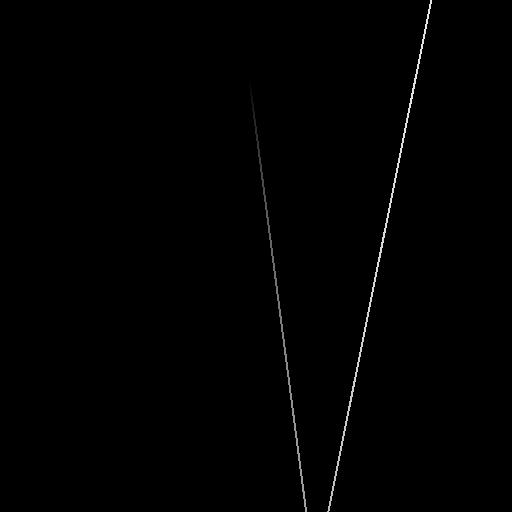
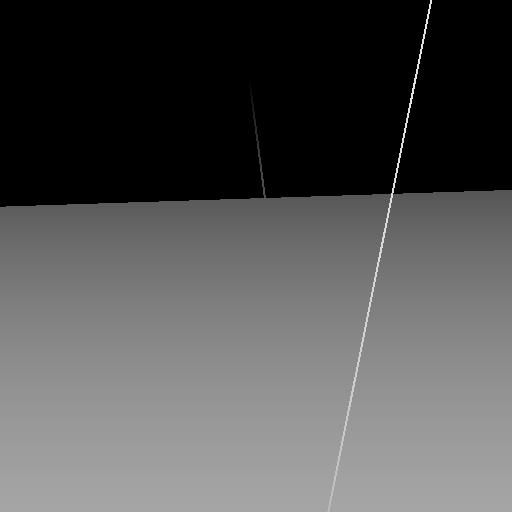
start real2sim

diff --git a/python/examples/real2sim.py b/python/examples/real2sim.py
@@ -1,0 +1,252 @@
+"""
+Copyright (c) 2020, NVIDIA CORPORATION. All rights reserved.
+
+NVIDIA CORPORATION and its licensors retain all intellectual property
+and proprietary rights in and to this software, related documentation
+and any modifications thereto. Any use, reproduction, disclosure or
+distribution of this software and related documentation without an express
+license agreement from NVIDIA CORPORATION is strictly prohibited.
+
+Franka Cube Pick
+----------------
+Use Jacobian matrix and inverse kinematics control of Franka robot to pick up a box.
+Damped Least Squares method from: https://www.math.ucsd.edu/~sbuss/ResearchWeb/ikmethods/iksurvey.pdf
+"""
+
+from isaacgym import gymapi
+from isaacgym import gymutil
+from isaacgym import gymtorch
+from isaacgym.torch_utils import *
+
+import math
+import numpy as np
+import torch
+import random
+import time
+
+
+def quat_axis(q, axis=0):
+    basis_vec = torch.zeros(q.shape[0], 3, device=q.device)
+    basis_vec[:, axis] = 1
+    return quat_rotate(q, basis_vec)
+
+
+def orientation_error(desired, current):
+    cc = quat_conjugate(current)
+    q_r = quat_mul(desired, cc)
+    return q_r[:, 0:3] * torch.sign(q_r[:, 3]).unsqueeze(-1)
+
+
+def cube_grasping_yaw(q, corners):
+    """ returns horizontal rotation required to grasp cube """
+    rc = quat_rotate(q, corners)
+    yaw = (torch.atan2(rc[:, 1], rc[:, 0]) - 0.25 * math.pi) % (0.5 * math.pi)
+    theta = 0.5 * yaw
+    w = theta.cos()
+    x = torch.zeros_like(w)
+    y = torch.zeros_like(w)
+    z = theta.sin()
+    yaw_quats = torch.stack([x, y, z, w], dim=-1)
+    return yaw_quats
+
+
+def control_ik(dpose):
+    global damping, j_eef, num_envs
+    # solve damped least squares
+    j_eef_T = torch.transpose(j_eef, 1, 2)
+    lmbda = torch.eye(6, device=device) * (damping ** 2)
+    u = (j_eef_T @ torch.inverse(j_eef @ j_eef_T + lmbda) @ dpose).view(num_envs, 7)
+    return u
+
+
+def control_osc(dpose):
+    global kp, kd, kp_null, kd_null, default_dof_pos_tensor, mm, j_eef, num_envs, dof_pos, dof_vel, hand_vel
+    mm_inv = torch.inverse(mm)
+    m_eef_inv = j_eef @ mm_inv @ torch.transpose(j_eef, 1, 2)
+    m_eef = torch.inverse(m_eef_inv)
+    u = torch.transpose(j_eef, 1, 2) @ m_eef @ (
+        kp * dpose - kd * hand_vel.unsqueeze(-1))
+
+    # Nullspace control torques `u_null` prevents large changes in joint configuration
+    # They are added into the nullspace of OSC so that the end effector orientation remains constant
+    # roboticsproceedings.org/rss07/p31.pdf
+    j_eef_inv = m_eef @ j_eef @ mm_inv
+    u_null = kd_null * -dof_vel + kp_null * (
+        (default_dof_pos_tensor.view(1, -1, 1) - dof_pos + np.pi) % (2 * np.pi) - np.pi)
+    u_null = u_null[:, :7]
+    u_null = mm @ u_null
+    u += (torch.eye(7, device=device).unsqueeze(0) - torch.transpose(j_eef, 1, 2) @ j_eef_inv) @ u_null
+    return u.squeeze(-1)
+
+
+# set random seed
+np.random.seed(42)
+
+torch.set_printoptions(precision=4, sci_mode=False)
+
+# acquire gym interface
+gym = gymapi.acquire_gym()
+
+# parse arguments
+
+# Add custom arguments
+custom_parameters = [
+    {"name": "--controller", "type": str, "default": "ik",
+     "help": "Controller to use for Franka. Options are {ik, osc}"},
+    {"name": "--num_envs", "type": int, "default": 256, "help": "Number of environments to create"},
+]
+args = gymutil.parse_arguments(
+    description="Franka Jacobian Inverse Kinematics (IK) + Operational Space Control (OSC) Example",
+    custom_parameters=custom_parameters,
+)
+
+# Grab controller
+controller = args.controller
+assert controller in {"ik", "osc"}, f"Invalid controller specified -- options are (ik, osc). Got: {controller}"
+
+# set torch device
+device = args.sim_device if args.use_gpu_pipeline else 'cpu'
+
+# configure sim
+sim_params = gymapi.SimParams()
+sim_params.up_axis = gymapi.UP_AXIS_Z
+sim_params.gravity = gymapi.Vec3(0.0, 0.0, -9.8)
+sim_params.dt = 1.0 / 60.0
+sim_params.substeps = 2
+sim_params.use_gpu_pipeline = args.use_gpu_pipeline
+if args.physics_engine == gymapi.SIM_PHYSX:
+    sim_params.physx.solver_type = 1
+    sim_params.physx.num_position_iterations = 8
+    sim_params.physx.num_velocity_iterations = 1
+    sim_params.physx.rest_offset = 0.0
+    sim_params.physx.contact_offset = 0.001
+    sim_params.physx.friction_offset_threshold = 0.001
+    sim_params.physx.friction_correlation_distance = 0.0005
+    sim_params.physx.num_threads = args.num_threads
+    sim_params.physx.use_gpu = args.use_gpu
+else:
+    raise Exception("This example can only be used with PhysX")
+
+# Set controller parameters
+# IK params
+damping = 0.05
+
+# OSC params
+kp = 150.
+kd = 2.0 * np.sqrt(kp)
+kp_null = 10.
+kd_null = 2.0 * np.sqrt(kp_null)
+
+# create sim
+sim = gym.create_sim(args.compute_device_id, args.graphics_device_id, args.physics_engine, sim_params)
+if sim is None:
+    raise Exception("Failed to create sim")
+
+# create viewer
+viewer = gym.create_viewer(sim, gymapi.CameraProperties())
+if viewer is None:
+    raise Exception("Failed to create viewer")
+
+asset_root = "../../assets"
+
+# create table asset
+table_dims = gymapi.Vec3(1.0, 1.0, 0.04)
+asset_options = gymapi.AssetOptions()
+asset_options.fix_base_link = True
+table_asset = gym.create_box(sim, table_dims.x, table_dims.y, table_dims.z, asset_options)
+
+# create box asset
+box_size = 0.045
+asset_options = gymapi.AssetOptions()
+box_asset = gym.create_box(sim, box_size, box_size, box_size, asset_options)
+
+asset_root = "../../assets"
+asset_file_object = "urdf/ycb/red_cube/red_cube.urdf"
+# asset_file_object = "urdf/ycb/010_potted_meat_can/010_potted_meat_can.urdf"
+object_asset = gym.load_asset(sim, asset_root, asset_file_object, gymapi.AssetOptions())
+
+
+# configure env grid
+num_envs = 1
+num_per_row = int(math.sqrt(num_envs))
+spacing = 1.0
+env_lower = gymapi.Vec3(-spacing, -spacing, 0.0)
+env_upper = gymapi.Vec3(spacing, spacing, spacing)
+print("Creating %d environments" % num_envs)
+
+franka_pose = gymapi.Transform()
+franka_pose.p = gymapi.Vec3(0, 0, 0)
+
+table_pose = gymapi.Transform()
+table_pose.p = gymapi.Vec3(0., 0.0, 0.5 * table_dims.z)
+
+box_pose = gymapi.Transform()
+
+envs = []
+box_idxs = []
+hand_idxs = []
+init_pos_list = []
+init_rot_list = []
+
+# add ground plane
+plane_params = gymapi.PlaneParams()
+plane_params.normal = gymapi.Vec3(0, 0, 1)
+gym.add_ground(sim, plane_params)
+
+object_scale = 1.0
+# object_scale = 1. / 161.03548483729227
+for i in range(num_envs):
+    # create env
+    env = gym.create_env(sim, env_lower, env_upper, num_per_row)
+    envs.append(env)
+
+    # add table
+    table_handle = gym.create_actor(env, table_asset, table_pose, "table", i, 0)
+
+    # add box
+    box_pose.p.x = table_pose.p.x + np.random.uniform(-0.2, 0.1)
+    box_pose.p.y = table_pose.p.y + np.random.uniform(-0.3, 0.3)
+    box_pose.p.z = 0.08
+    box_pose.r = gymapi.Quat.from_axis_angle(gymapi.Vec3(0, 0, 1), np.random.uniform(-math.pi, math.pi))
+    # box_handle = gym.create_actor(env, box_asset, box_pose, "box", i, 0)
+    box_handle = gym.create_actor(env, object_asset, box_pose, "box", i, 0)
+    gym.set_actor_scale(env, box_handle, object_scale)
+
+    color = gymapi.Vec3(np.random.uniform(0, 1), np.random.uniform(0, 1), np.random.uniform(0, 1))
+    gym.set_rigid_body_color(env, box_handle, 0, gymapi.MESH_VISUAL_AND_COLLISION, color)
+
+    # get global index of box in rigid body state tensor
+    box_idx = gym.get_actor_rigid_body_index(env, box_handle, 0, gymapi.DOMAIN_SIM)
+    box_idxs.append(box_idx)
+
+# point camera at middle env
+cam_pos = gymapi.Vec3(4, 3, 2)
+cam_target = gymapi.Vec3(-4, -3, 0)
+middle_env = envs[num_envs // 2 + num_per_row // 2]
+gym.viewer_camera_look_at(viewer, middle_env, cam_pos, cam_target)
+
+# ==== prepare tensors =====
+# from now on, we will use the tensor API that can run on CPU or GPU
+gym.prepare_sim(sim)
+
+# simulation loop
+while not gym.query_viewer_has_closed(viewer):
+
+    # step the physics
+    gym.simulate(sim)
+    gym.fetch_results(sim, True)
+
+    # refresh tensors
+    gym.refresh_rigid_body_state_tensor(sim)
+    gym.refresh_dof_state_tensor(sim)
+    gym.refresh_jacobian_tensors(sim)
+    gym.refresh_mass_matrix_tensors(sim)
+
+    # update viewer
+    gym.step_graphics(sim)
+    gym.draw_viewer(viewer, sim, False)
+    gym.sync_frame_time(sim)
+
+# cleanup
+gym.destroy_viewer(viewer)
+gym.destroy_sim(sim)

diff --git a/python/examples/real2sim_backup.py b/python/examples/real2sim_backup.py
@@ -63,12 +63,7 @@ viewer = gym.create_viewer(sim, gymapi.CameraProperties())
 if viewer is None:
     raise ValueError('*** Failed to create viewer')
 
-# add ground plane
-# plane_params = gymapi.PlaneParams()
-# plane_params.static_friction = 0.0
-# plane_params.dynamic_friction = 0.0
 
-# gym.add_ground(sim, plane_params)
 
 # set up the env grid
 num_envs = 1
@@ -81,54 +76,72 @@ envs = []
 table_handles = []
 actor_handles = []
 
-# create ball asset with gravity disabled
+# create table asset with gravity disabled
 asset_root = "../../assets"
 asset_file = "urdf/ycb/table_top/table_top.urdf"
-# asset_file = "urdf/ycb/red_cube/red_cube.urdf"
 asset_options = gymapi.AssetOptions()
 asset_options.fix_base_link = True
-# asset_options.disable_gravity = True
 print("Loading asset '%s' from '%s'" % (asset_file, asset_root))
-asset_table = gym.load_asset(sim, asset_root, asset_file, asset_options)
+# asset_table = gym.load_asset(sim, asset_root, asset_file, asset_options)
 
+# create static box asset
+asset_options.fix_base_link = True
+asset_box = gym.create_box(sim, 1.0, 1.0, 0.03, asset_options)
 
 
 # load ball asset
-# asset_root = "../../assets"
-# asset_file_ball = "urdf/ycb/red_cube/red_cube.urdf"
-# asset_ball = gym.load_asset(sim, asset_root, asset_file_ball, gymapi.AssetOptions())
+asset_root = "../../assets"
+# asset_file_object = "urdf/ycb/red_cube/red_cube.urdf"
+asset_file_object = "urdf/ycb/red_mug/red_mug.urdf"
+
+asset_object = gym.load_asset(sim, asset_root, asset_file_object, gymapi.AssetOptions())
 
 
 color = gymapi.Vec3(0, 1, 0)
 pose = gymapi.Transform()
 pose.r = gymapi.Quat(0, 0, 0, 1)
 
+
+# mesh scale:  16.103548483729227
+# transform:  [[   0.97441594    0.22451232    0.01038267  452.03628145]
+#  [  -0.22332016    0.96196666    0.15731573 -290.96597253]
+#  [   0.02533154   -0.15560962    0.98749378 -461.58481256]
+#  [   0.            0.            0.            1.        ]]
+
+object_scale = 1. # / 161.03548483729227
 print('Creating %d environments' % num_envs)
 for i in range(num_envs):
     # create env
     env = gym.create_env(sim, env_lower, env_upper, 1)
     envs.append(env)
 
+    # add table actor
+    # pose = gymapi.Transform()
+    # pose.p = gymapi.Vec3(0.0, 0.0, 0.0)
+    # pose.r = gymapi.Quat(0, 0, 0, 1)
+    # table_handle = gym.create_actor(env, asset_table, pose, "table_top", i, 0)
+    # actor_handles.append(table_handle)
+
     # add box actor
     pose = gymapi.Transform()
     pose.p = gymapi.Vec3(0.0, 0.0, 0.0)
     pose.r = gymapi.Quat(0, 0, 0, 1)
-    table_handle = gym.create_actor(env, asset_table, pose, "table_top", i, 0)
+    table_handle = gym.create_actor(env, asset_box, pose, "table_top", i, 0)
     actor_handles.append(table_handle)
-
-    # set restitution for box actor
-    # shape_props = gym.get_actor_rigid_shape_properties(env, table_handle)
-    # shape_props[0].restitution = 1
-    # shape_props[0].compliance = 0.5
-    # gym.set_actor_rigid_shape_properties(env, table_handle, shape_props)
-
+    shape_props = gym.get_actor_rigid_shape_properties(env, table_handle)
+    shape_props[0].restitution = 1
+    shape_props[0].compliance = 0.5
+    gym.set_actor_rigid_shape_properties(env, table_handle, shape_props)
 
     # mug
-    # pose.p = gymapi.Vec3(0.1, -0.1, 0.05)
-    # collision_group = 0
-    # collision_filter = 0
-    # ahandle = gym.create_actor(env, asset_ball, pose, None, collision_group, collision_filter)
-    # gym.set_rigid_body_color(env, ahandle, 0, gymapi.MESH_VISUAL_AND_COLLISION, color)
+    pose.p = gymapi.Vec3(0., 0.0, 0.15)
+    object_handle = gym.create_actor(env, asset_object, pose, "object", i, 0)
+    actor_handles.append(object_handle)
+    shape_props = gym.get_actor_rigid_shape_properties(env, object_handle)
+    shape_props[0].restitution = 1
+    shape_props[0].compliance = 0.5
+    gym.set_actor_rigid_shape_properties(env, object_handle, shape_props)
+    gym.set_actor_scale(env, object_handle, object_scale)
 
 def compute_camera_intrinsics_matrix(image_width, image_heigth, horizontal_fov, device):
     vertical_fov = (image_heigth / image_width * horizontal_fov) * np.pi / 180
